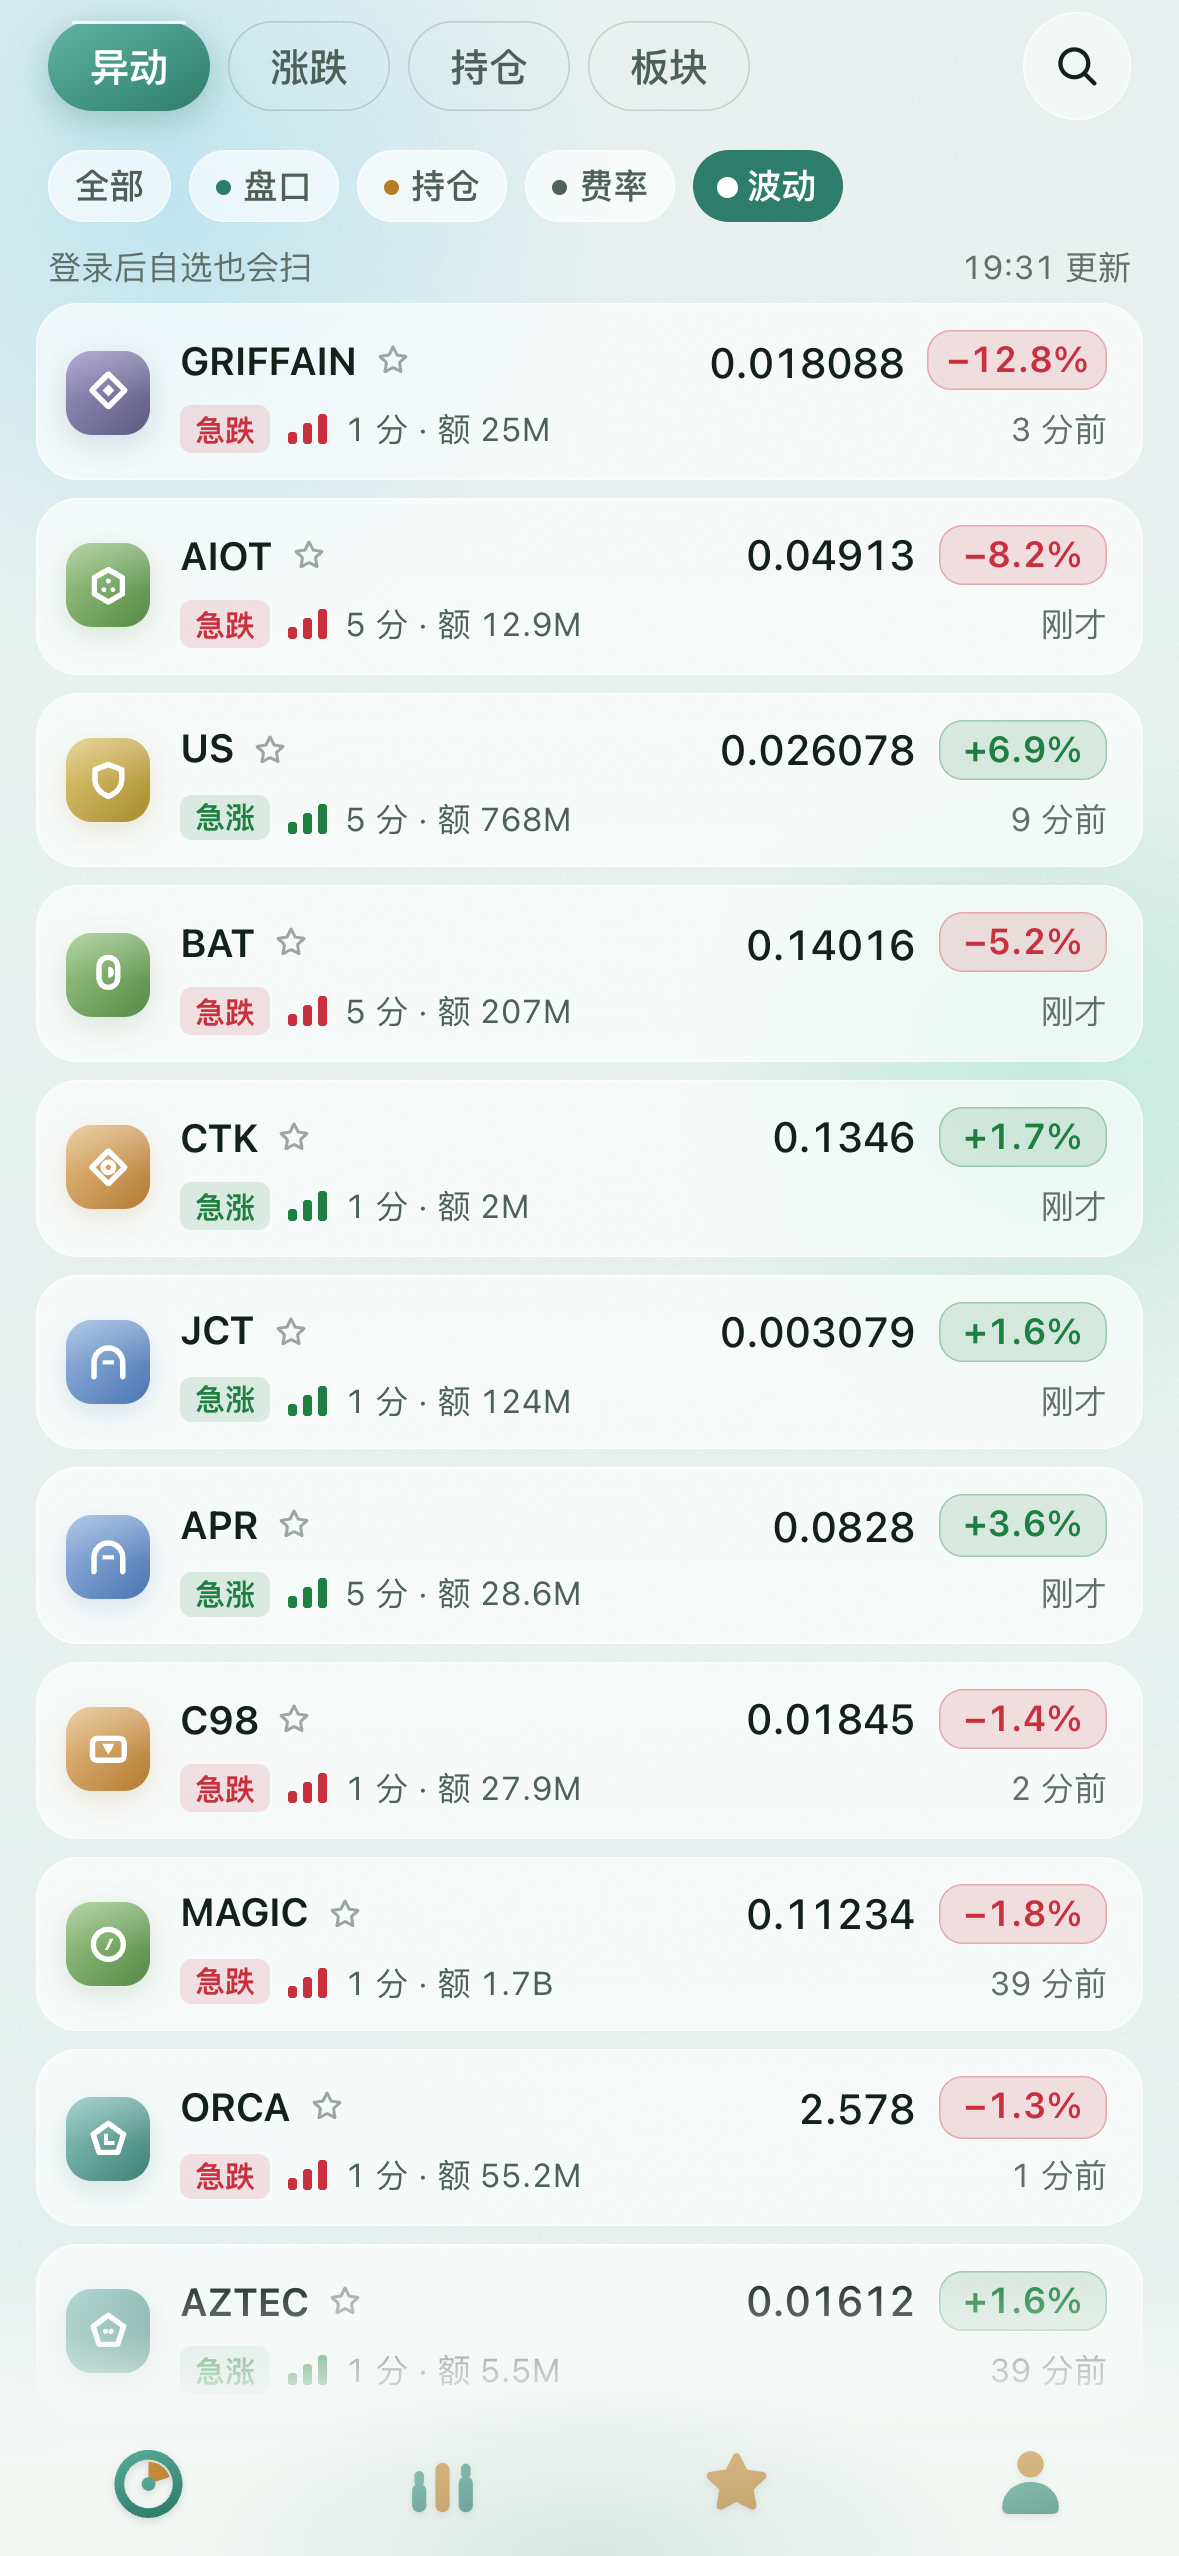
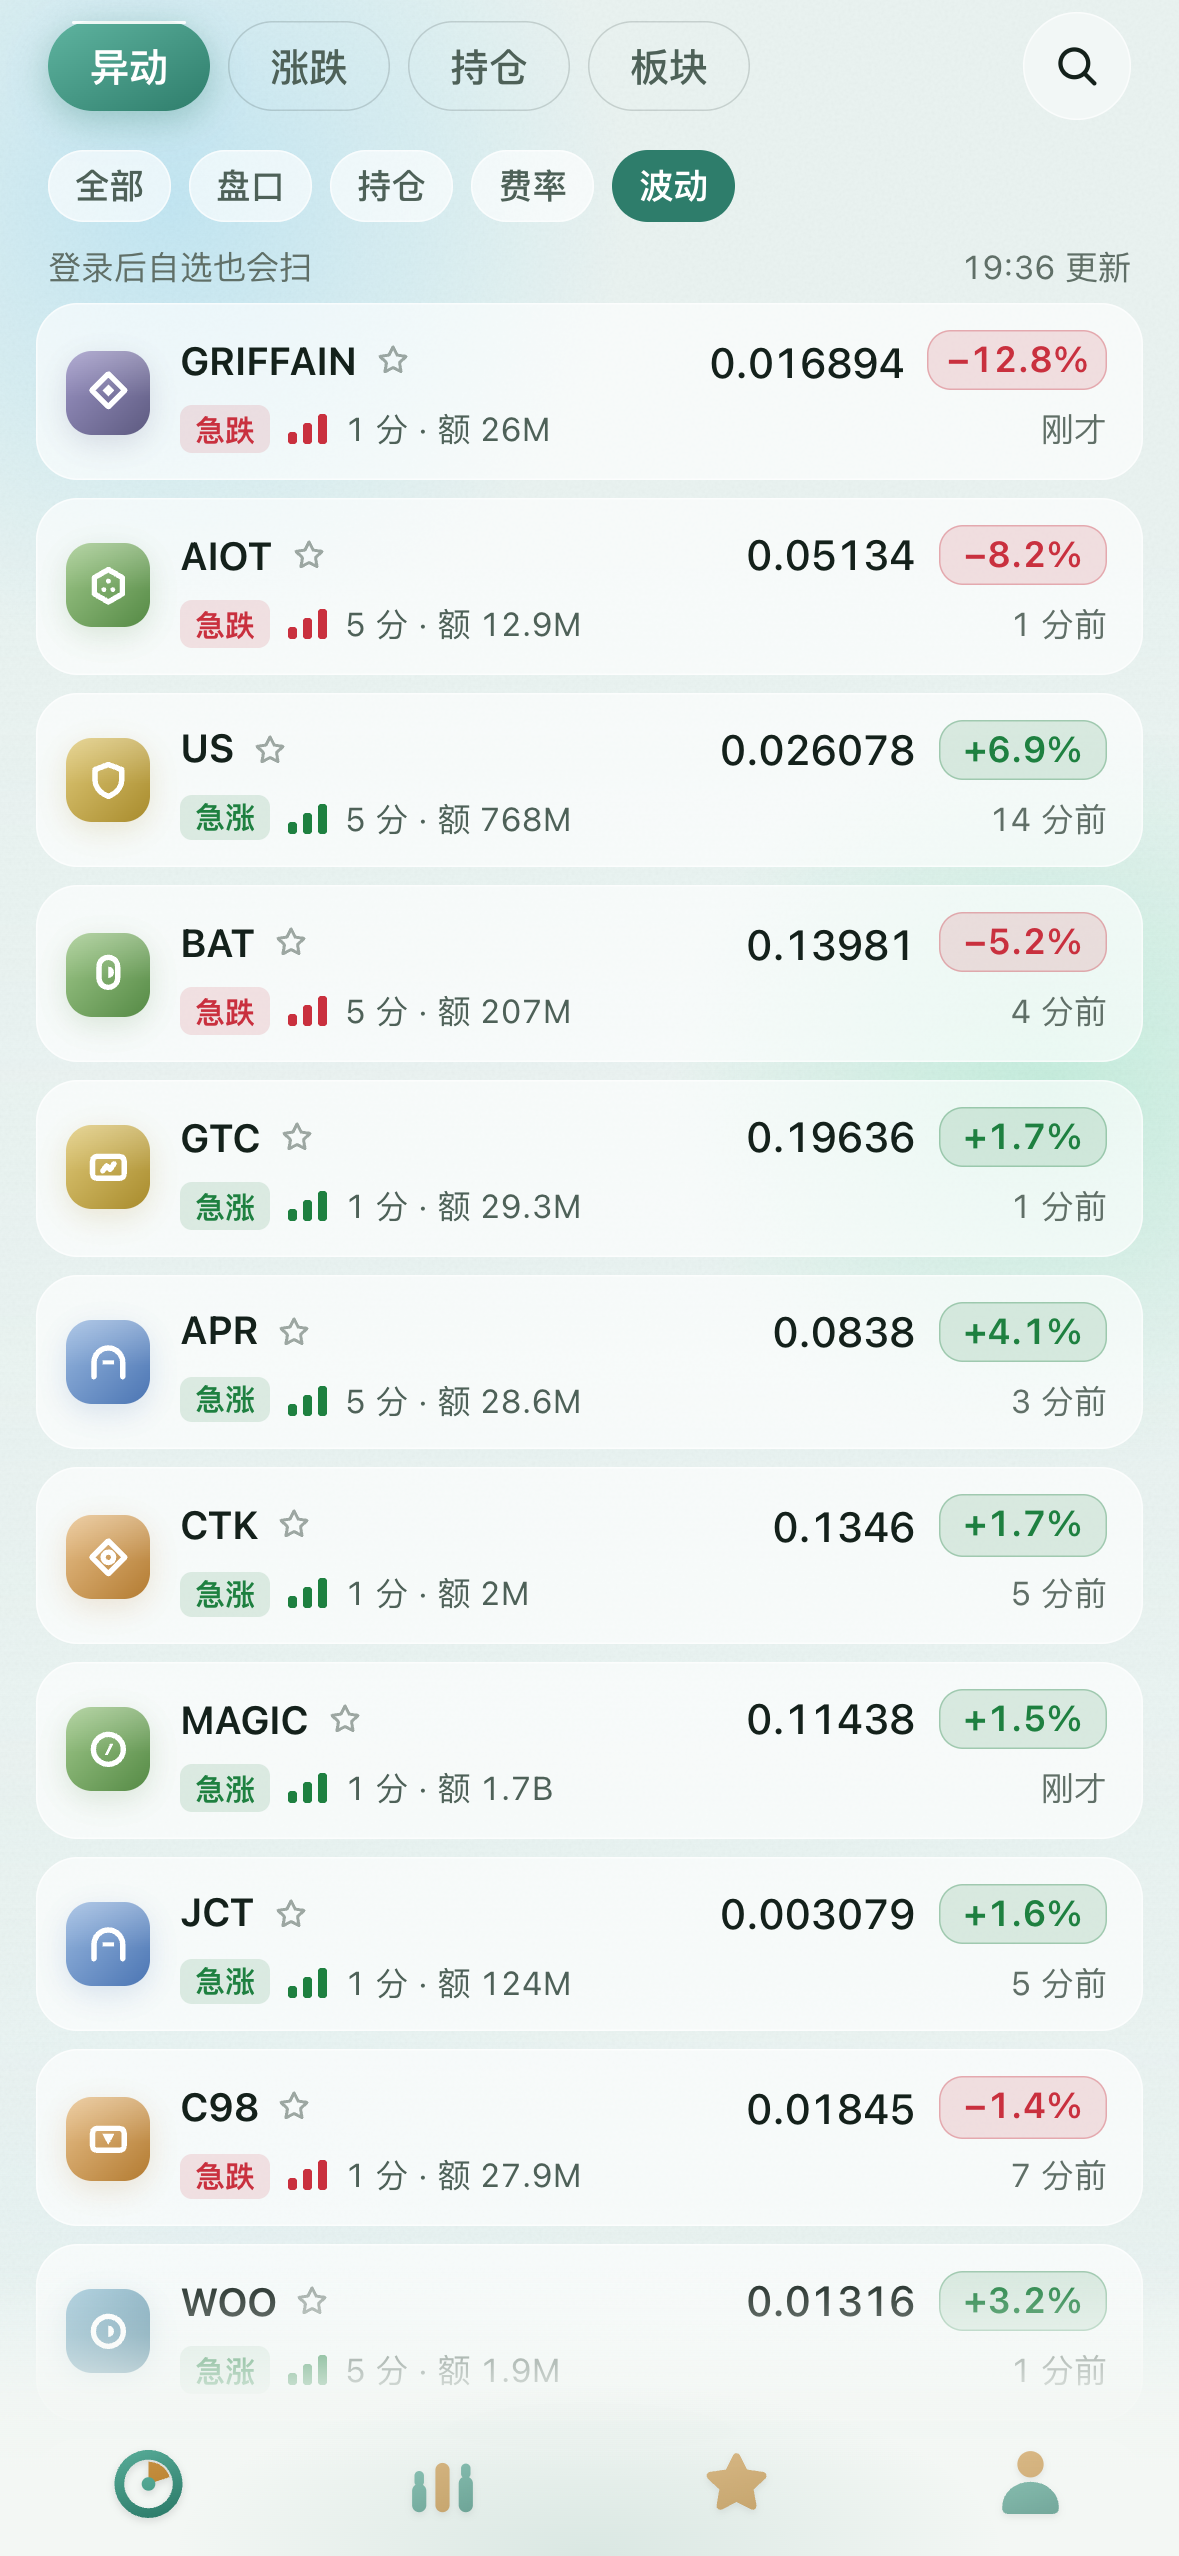
手机网页首页：顶部胶囊去掉色点，只剩文字（与 iOS dc24bcfb 一致）
删掉胶囊里的圆点与对应样式；测试断言 CSS 里不再有胶囊圆点，验收脚本胶囊上出现圆点即报错；青苔浅 1 / 2 / 2b / 2c 重拍。

diff --git a/Web/src/m/pages/home.ts b/Web/src/m/pages/home.ts
@@ -159,11 +159,10 @@ export function initHome(root: HTMLElement): PageHandle {
   // ───────── 异动 ─────────
 
   function renderChips(): void {
-    const chip = (id: Chip, label: string, dot: string | null): string =>
-      `<button type="button" role="tab" data-chip="${id}" class="${L.chip === id ? 'on' : ''}"${dot ? ` style="--c:${dot}"` : ''}>${dot ? '<i></i>' : ''}${esc(label)}</button>`
-    // 波动：圆点一半涨色一半跌色（急涨 / 急跌都在这一类里）
-    chipsEl.innerHTML = chip('all', HL.all, null) + chip('book', HL.catBook, CAT_COLOR.book) + chip('oi', HL.catOi, CAT_COLOR.oi)
-      + chip('funding', HL.catFunding, CAT_COLOR.funding) + chip('move', HL.catMove, 'linear-gradient(135deg, var(--up) 50%, var(--down) 50%)')
+    // 胶囊只写类名：不带计数、不带色点（与 iOS 一致）
+    const chip = (id: Chip, label: string): string =>
+      `<button type="button" role="tab" data-chip="${id}" class="${L.chip === id ? 'on' : ''}">${esc(label)}</button>`
+    chipsEl.innerHTML = chip('all', HL.all) + chip('book', HL.catBook) + chip('oi', HL.catOi) + chip('funding', HL.catFunding) + chip('move', HL.catMove)
   }
 
   function renderSub(): void {

diff --git a/Web/src/m/styles/home.css b/Web/src/m/styles/home.css
@@ -46,9 +46,6 @@ html[data-theme="dark"] .hm-cap.on { box-shadow: 0 3px 12px color-mix(in srgb, v
 }
 .hm-chips button::after { content: ''; position: absolute; left: 0; right: 0; top: -6px; bottom: -6px } /* 命中 36 */
 .hm-chips button.on { background: var(--accent); color: var(--badge-ink); font-weight: 600; box-shadow: none }
-.hm-chips i { width: 5px; height: 5px; border-radius: 50%; background: var(--c) }
-.hm-chips button[data-chip="move"].on i { box-shadow: 0 0 0 1px var(--badge-ink) }
-.hm-chips button.on i { background: var(--badge-ink) }
 .hm-sub {
   display: flex; justify-content: space-between; gap: 8px; flex: none; padding: 2px calc(var(--inset-page) + var(--safe-right)) 6px calc(var(--inset-page) + var(--safe-left));
   font: 400 11px/1.2 var(--font-ui); color: var(--ink3); font-variant-numeric: tabular-nums;

diff --git a/Web/tests/m-home-segs.test.ts b/Web/tests/m-home-segs.test.ts
@@ -129,9 +129,10 @@ describe('波动行（急涨 / 急跌）', () => {
 })
 
 describe('顶部胶囊条不带计数', () => {
-  it('首页胶囊只写类名：不再算计数、不出数字徽记', () => {
+  it('首页胶囊只写类名：不再算计数、不出数字徽记、不带色点', () => {
     expect(homeSource).not.toMatch(/chipCounts/)
     expect(homeCss).not.toMatch(/\.hm-chips b\b/)
+    expect(homeCss).not.toMatch(/\.hm-chips[^{]*\bi\b/)
   })
 })
 
